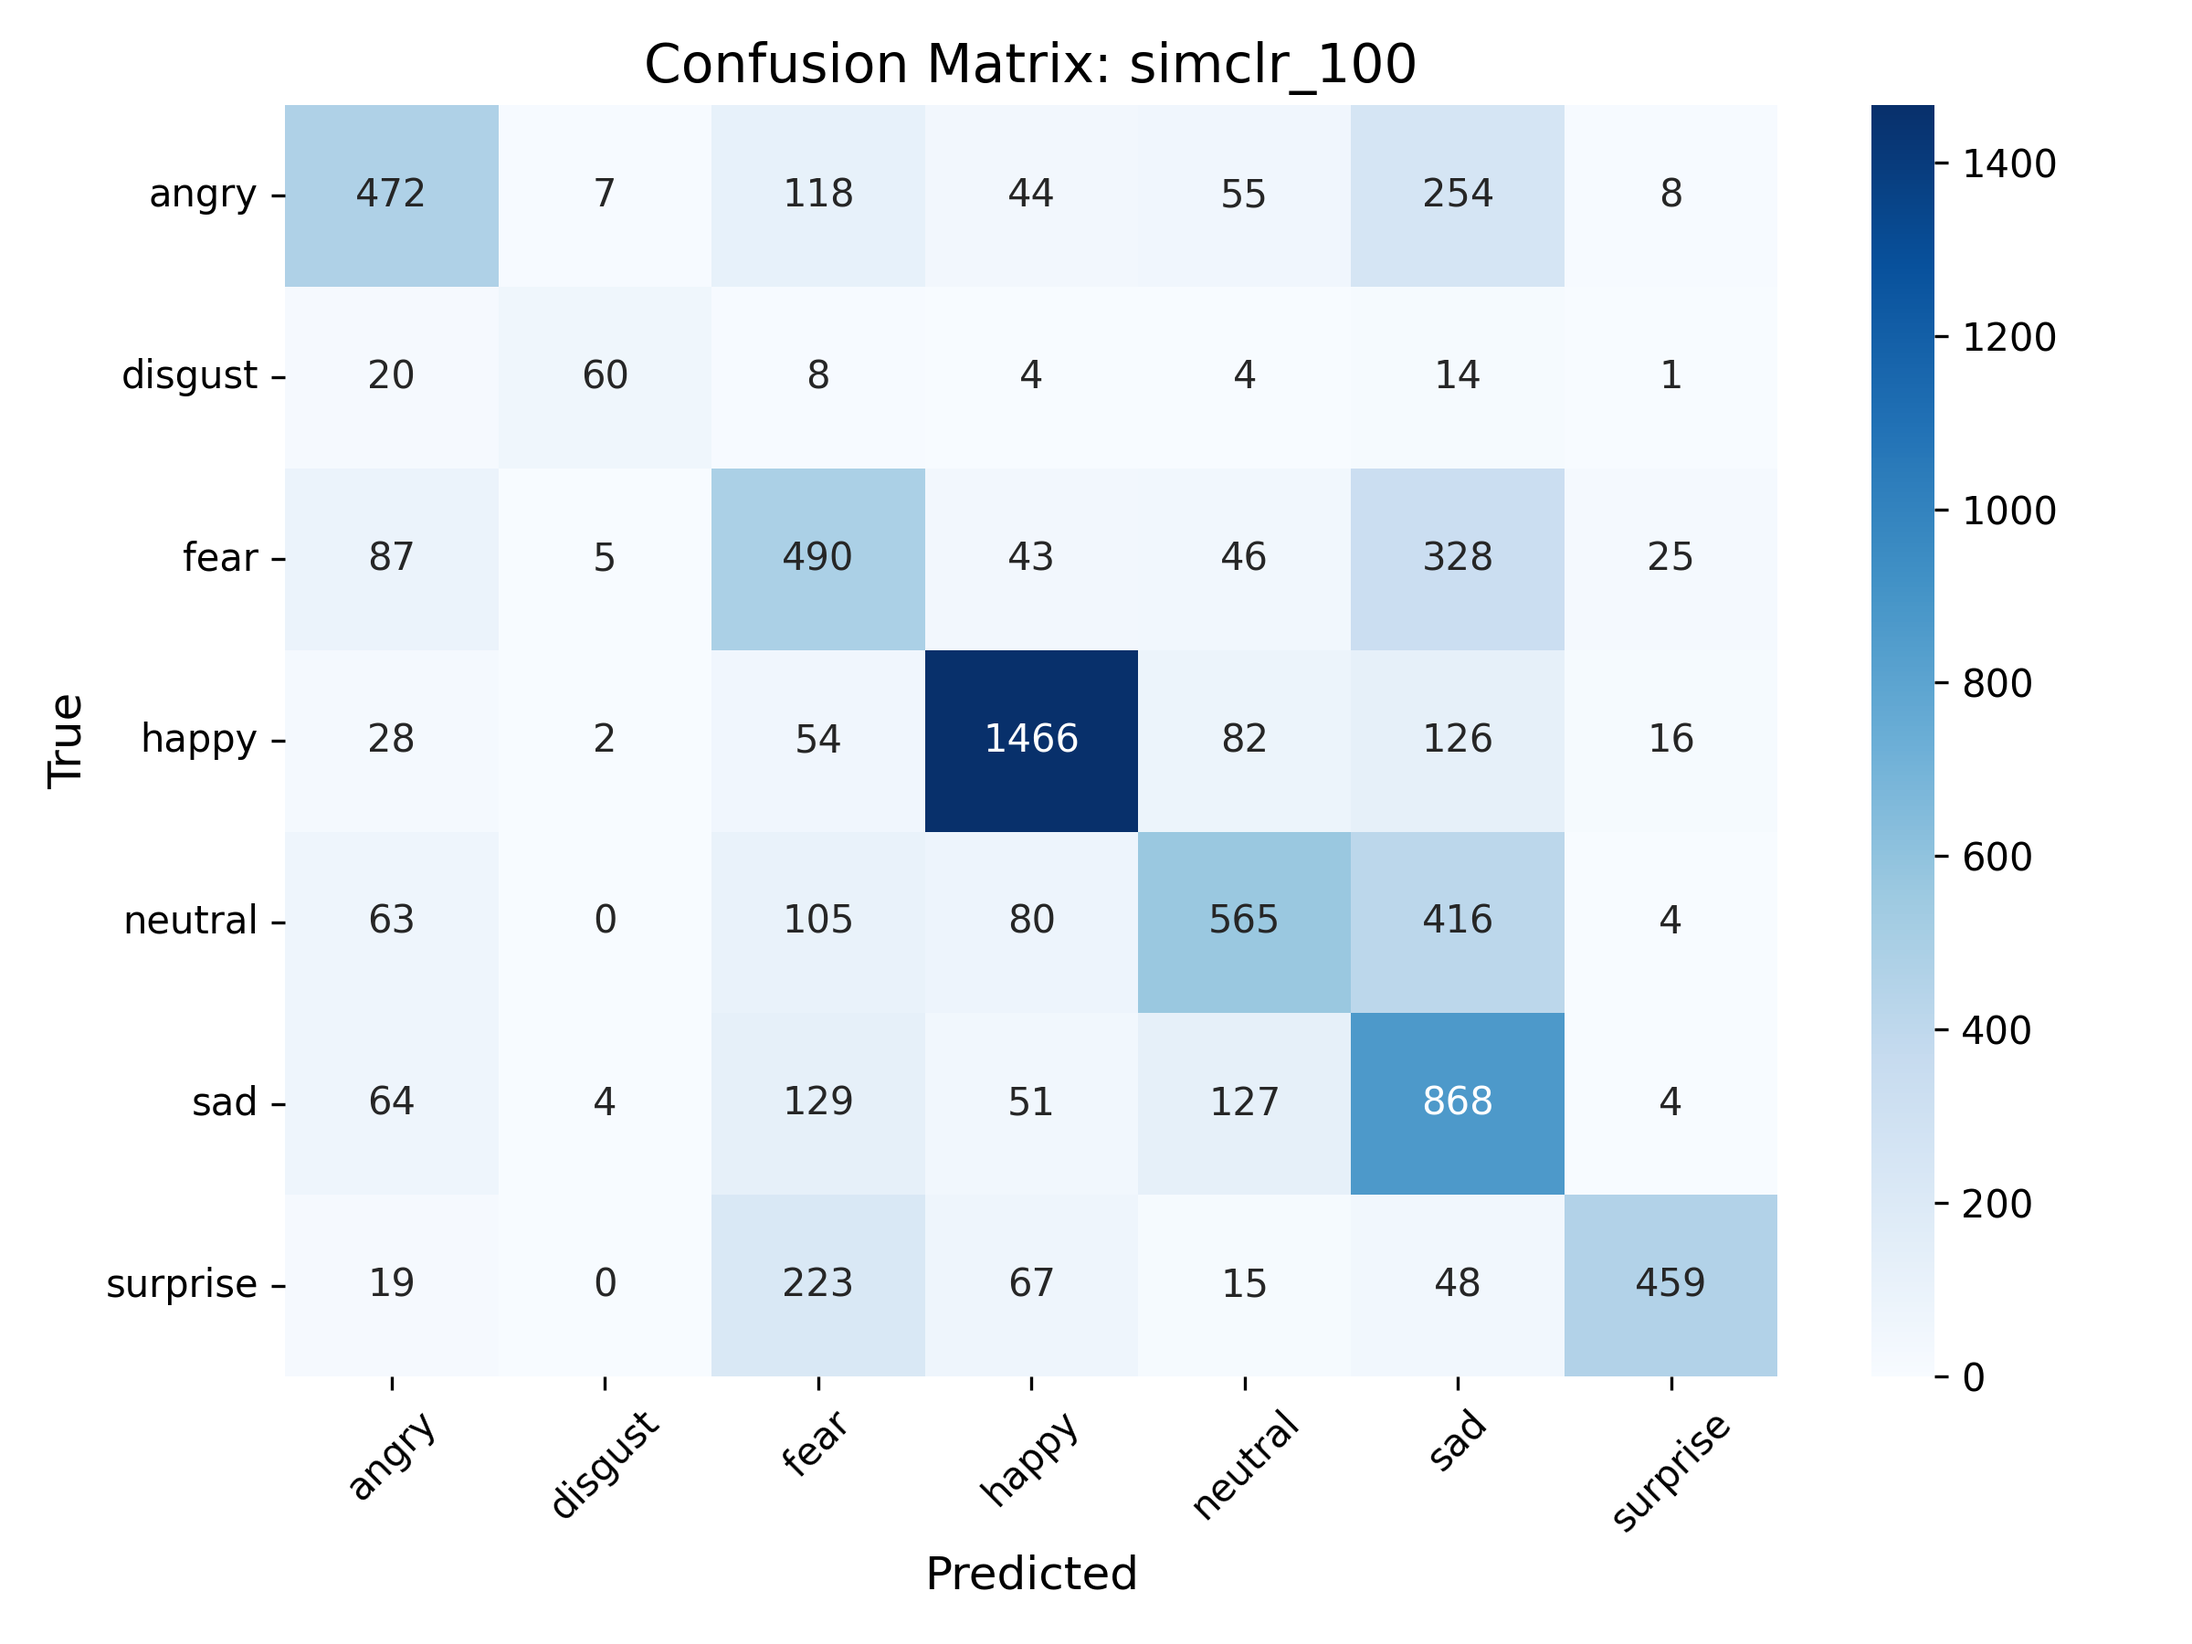
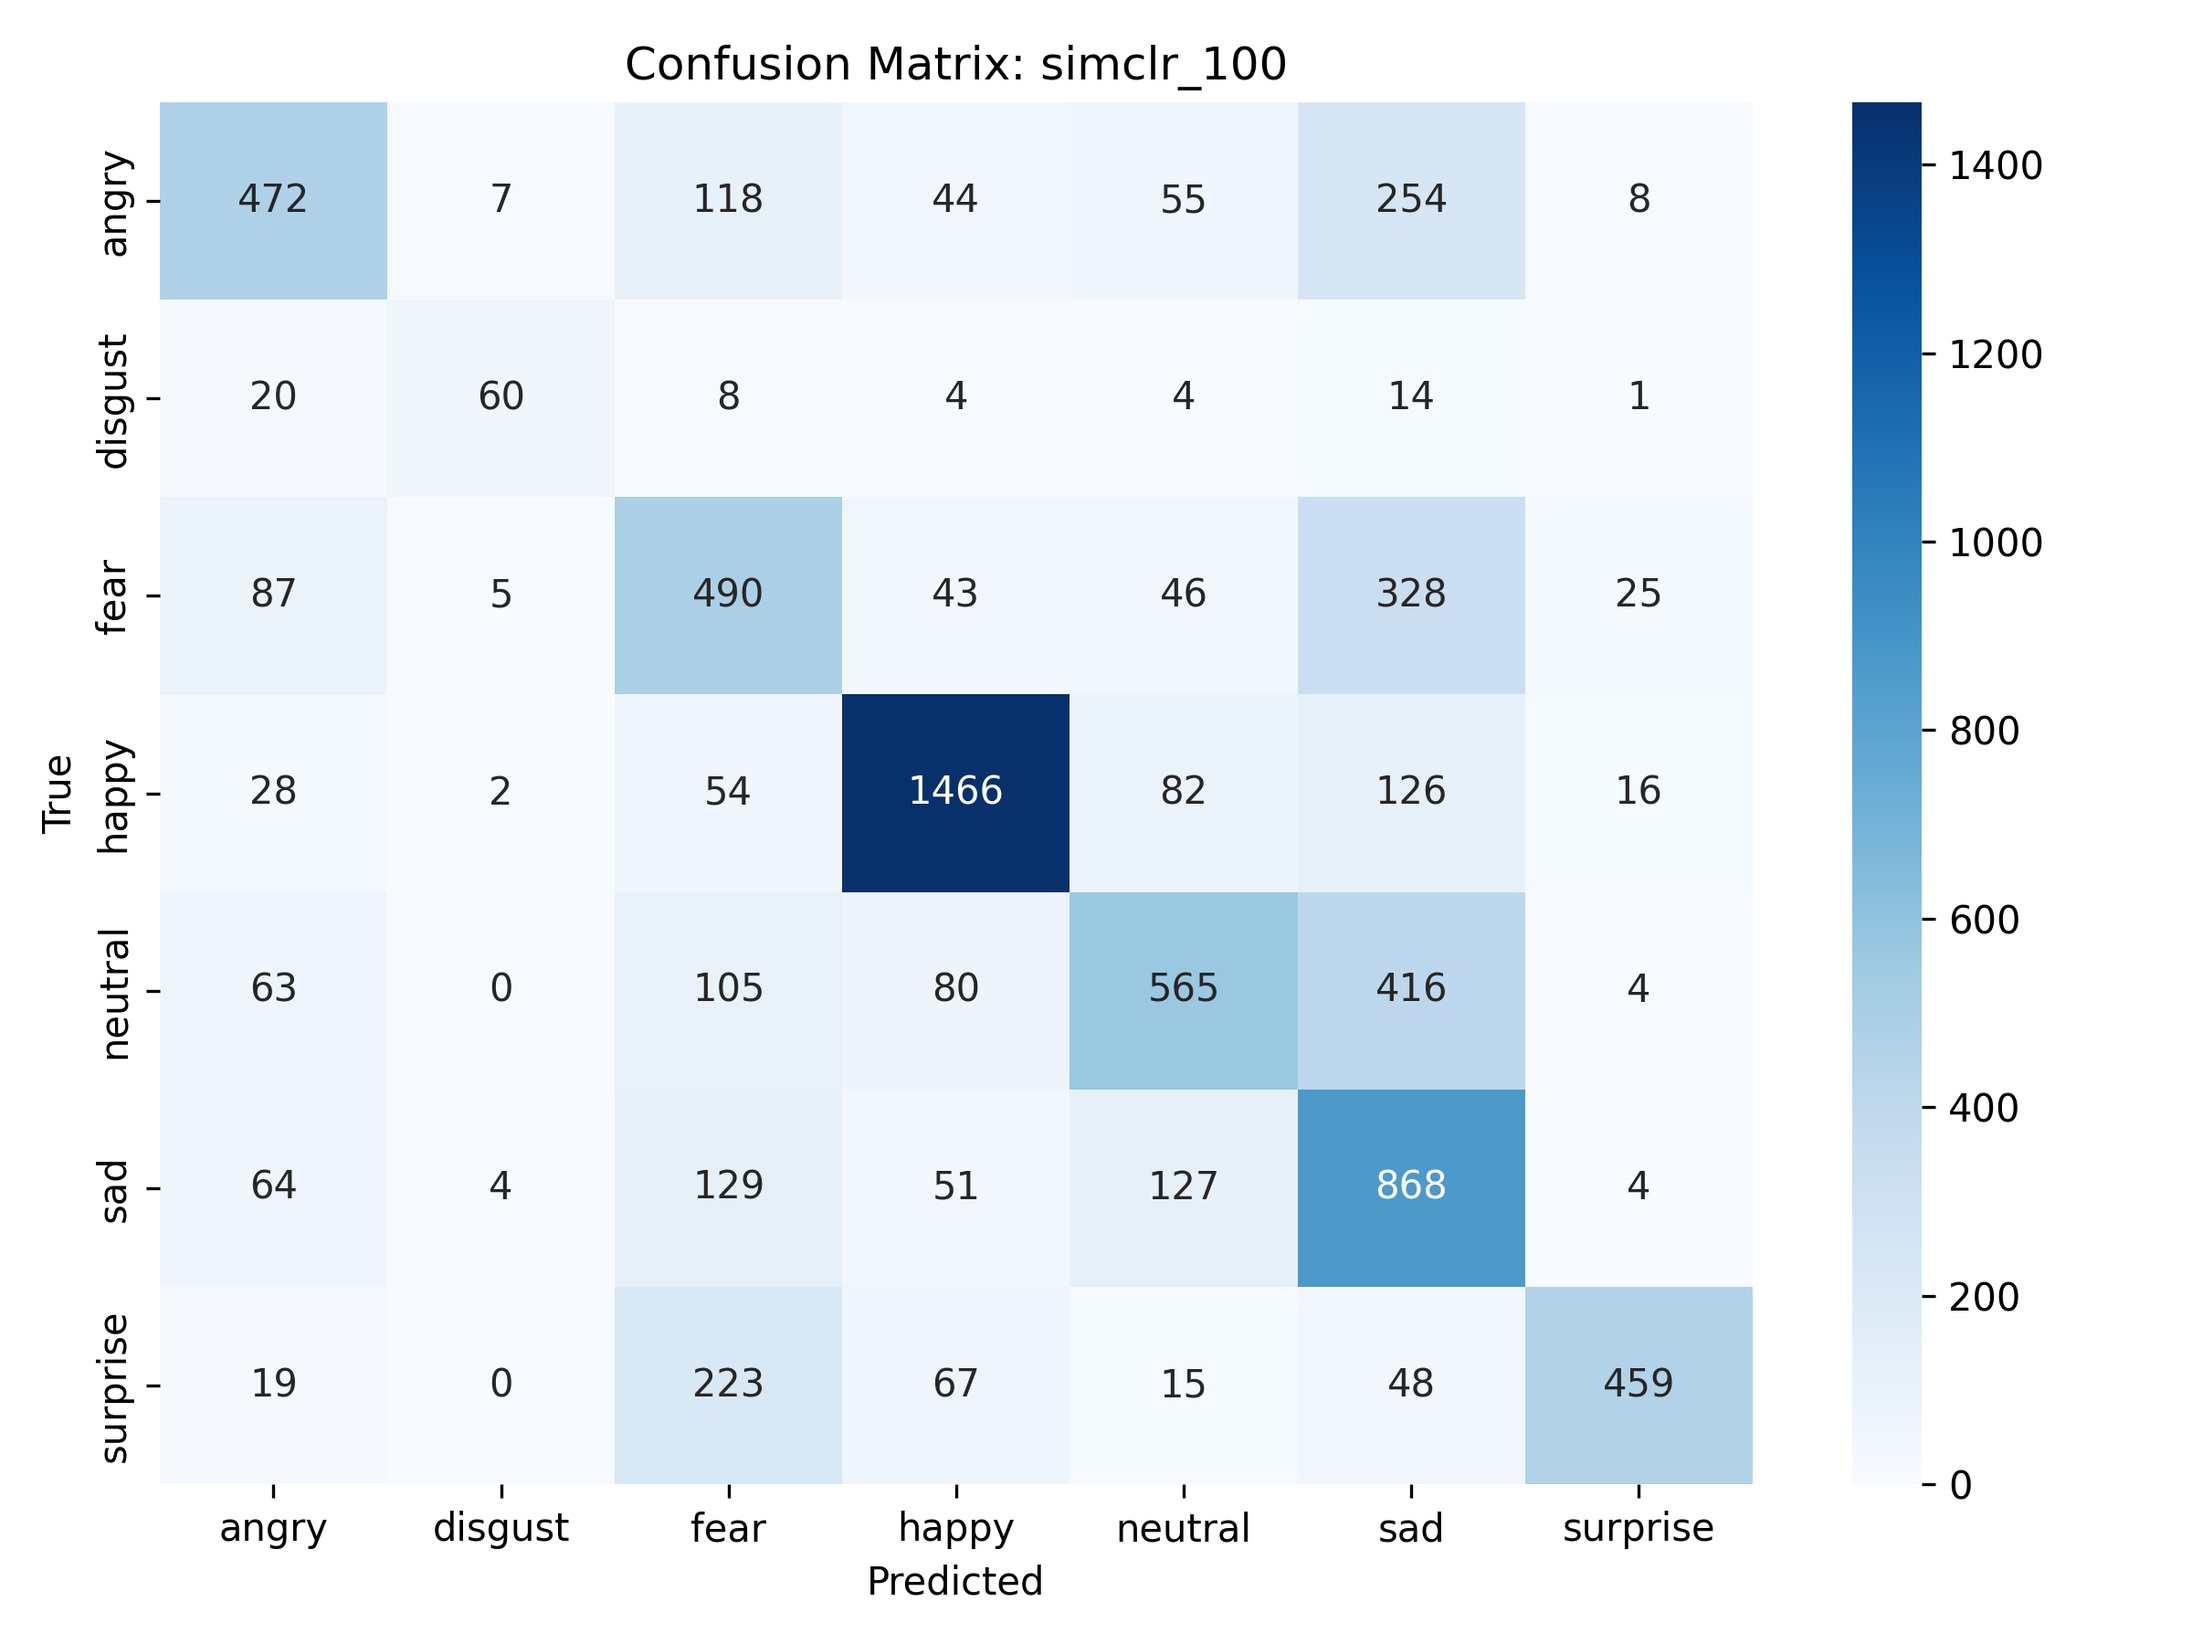
more vis

diff --git a/vis.py b/vis.py
@@ -1,0 +1,220 @@
+import torch
+import torch.nn as nn
+from sklearn.metrics import classification_report, confusion_matrix, accuracy_score, f1_score
+from sklearn.manifold import TSNE
+import matplotlib.pyplot as plt
+import seaborn as sns
+from torchvision import datasets, transforms, models
+from torch.utils.data import DataLoader
+import pandas as pd
+import numpy as np
+import os
+
+# ---------------- CONFIG ----------------
+DEVICE = "cuda" if torch.cuda.is_available() else "cpu"
+NUM_CLASSES = 7
+BATCH_SIZE = 64
+
+TEST_DIR = r"D:\CLOUD PROJ\fer2013\test"
+
+OUTPUT_DIR = "outputs"
+CM_DIR = os.path.join(OUTPUT_DIR, "confusion_matrices")
+REPORT_DIR = os.path.join(OUTPUT_DIR, "reports")
+PLOT_DIR = os.path.join(OUTPUT_DIR, "plots")
+
+os.makedirs(CM_DIR, exist_ok=True)
+os.makedirs(REPORT_DIR, exist_ok=True)
+os.makedirs(PLOT_DIR, exist_ok=True)
+
+MODEL_PATHS = {
+    "baseline_100": "baseline_resnet18_emotion100.pth",
+    "simclr_100": "simclr_finetuned100_emotion.pth"
+}
+
+# ---------------- DATA ----------------
+transform = transforms.Compose([
+    transforms.Resize((224, 224)),
+    transforms.ToTensor()
+])
+
+test_dataset = datasets.ImageFolder(TEST_DIR, transform=transform)
+test_loader = DataLoader(test_dataset, batch_size=BATCH_SIZE, shuffle=False)
+
+class_names = test_dataset.classes
+
+# ---------------- MODEL ----------------
+def load_model(path):
+    model = models.resnet18(pretrained=False)
+    model.fc = nn.Linear(model.fc.in_features, NUM_CLASSES)
+    model.load_state_dict(torch.load(path, map_location=DEVICE))
+    model.to(DEVICE)
+    model.eval()
+    return model
+
+# ---------------- CONFUSION MATRIX ----------------
+def save_confusion_matrix(cm, name):
+    plt.figure(figsize=(8,6))
+    sns.heatmap(cm, annot=True, fmt="d", cmap="Blues",
+                xticklabels=class_names,
+                yticklabels=class_names)
+    plt.title(f"Confusion Matrix: {name}")
+    plt.xlabel("Predicted")
+    plt.ylabel("True")
+    plt.tight_layout()
+    plt.savefig(os.path.join(CM_DIR, f"{name}_cm.png"), dpi=300)
+    plt.close()
+
+def save_normalized_cm(cm, name):
+    cm_norm = cm.astype('float') / cm.sum(axis=1)[:, np.newaxis]
+
+    plt.figure(figsize=(8,6))
+    sns.heatmap(cm_norm, annot=True, fmt=".2f", cmap="Blues",
+                xticklabels=class_names,
+                yticklabels=class_names)
+    plt.title(f"Normalized CM: {name}")
+    plt.tight_layout()
+    plt.savefig(os.path.join(CM_DIR, f"{name}_cm_norm.png"), dpi=300)
+    plt.close()
+
+# ---------------- EVALUATION ----------------
+def evaluate(model, name):
+    y_true, y_pred = [], []
+
+    with torch.no_grad():
+        for images, labels in test_loader:
+            images, labels = images.to(DEVICE), labels.to(DEVICE)
+            outputs = model(images)
+            preds = torch.argmax(outputs, dim=1)
+
+            y_true.extend(labels.cpu().numpy())
+            y_pred.extend(preds.cpu().numpy())
+
+    acc = accuracy_score(y_true, y_pred)
+    f1 = f1_score(y_true, y_pred, average='macro')
+
+    print(f"{name} → Acc: {acc:.4f}, F1: {f1:.4f}")
+
+    # report
+    report = classification_report(y_true, y_pred, target_names=class_names, output_dict=True)
+    report_df = pd.DataFrame(report).transpose()
+    report_df.to_csv(os.path.join(REPORT_DIR, f"{name}_report.csv"))
+
+    cm = confusion_matrix(y_true, y_pred)
+    save_confusion_matrix(cm, name)
+    save_normalized_cm(cm, name)
+
+    return acc, f1, cm, report_df
+
+# ---------------- TSNE ----------------
+def extract_features(model):
+    features, labels = [], []
+
+    with torch.no_grad():
+        for images, lbls in test_loader:
+            images = images.to(DEVICE)
+
+            x = model.conv1(images)
+            x = model.bn1(x)
+            x = model.relu(x)
+            x = model.maxpool(x)
+
+            x = model.layer1(x)
+            x = model.layer2(x)
+            x = model.layer3(x)
+            x = model.layer4(x)
+
+            x = model.avgpool(x)
+            x = torch.flatten(x, 1)
+
+            features.append(x.cpu().numpy())
+            labels.extend(lbls.numpy())
+
+    return np.concatenate(features), np.array(labels)
+
+def plot_tsne(model, name):
+    features, labels = extract_features(model)
+
+    tsne = TSNE(n_components=2, random_state=42, perplexity=30)
+    reduced = tsne.fit_transform(features)
+
+    plt.figure(figsize=(7,6))
+    for i, cls in enumerate(class_names):
+        idx = labels == i
+        plt.scatter(reduced[idx, 0], reduced[idx, 1], label=cls, s=10)
+
+    plt.legend()
+    plt.title(f"t-SNE: {name}")
+    plt.tight_layout()
+    plt.savefig(os.path.join(PLOT_DIR, f"{name}_tsne.png"), dpi=300)
+    plt.close()
+
+# ---------------- PER CLASS ----------------
+def plot_per_class(all_reports):
+    b = all_reports["baseline_100"].loc[class_names]["f1-score"]
+    s = all_reports["simclr_100"].loc[class_names]["f1-score"]
+
+    x = np.arange(len(class_names))
+
+    plt.figure()
+    plt.bar(x-0.2, b, 0.4, label="Baseline")
+    plt.bar(x+0.2, s, 0.4, label="SimCLR")
+
+    plt.xticks(x, class_names, rotation=45)
+    plt.title("Per-Class F1")
+    plt.legend()
+    plt.tight_layout()
+    plt.savefig(os.path.join(PLOT_DIR, "per_class.png"), dpi=300)
+    plt.close()
+
+# ---------------- MISCLASSIFIED ----------------
+def plot_errors(model, name):
+    imgs, t, p = [], [], []
+
+    with torch.no_grad():
+        for images, labels in test_loader:
+            images = images.to(DEVICE)
+            outputs = model(images)
+            preds = torch.argmax(outputs, dim=1)
+
+            for i in range(len(images)):
+                if preds[i] != labels[i]:
+                    imgs.append(images[i].cpu())
+                    t.append(labels[i].item())
+                    p.append(preds[i].item())
+                if len(imgs) >= 12:
+                    break
+            if len(imgs) >= 12:
+                break
+
+    plt.figure(figsize=(10,8))
+    for i in range(len(imgs)):
+        plt.subplot(3,4,i+1)
+        plt.imshow(imgs[i].permute(1,2,0))
+        plt.title(f"T:{class_names[t[i]]}\nP:{class_names[p[i]]}")
+        plt.axis("off")
+
+    plt.tight_layout()
+    plt.savefig(os.path.join(PLOT_DIR, f"{name}_errors.png"), dpi=300)
+    plt.close()
+
+# ---------------- MAIN ----------------
+results = []
+all_reports = {}
+
+for name, path in MODEL_PATHS.items():
+    if os.path.exists(path):
+        model = load_model(path)
+        acc, f1, cm, rep = evaluate(model, name)
+
+        results.append({"Model": name, "Accuracy": acc, "Macro_F1": f1})
+        all_reports[name] = rep
+
+        plot_tsne(model, name)
+        plot_errors(model, name)
+
+df = pd.DataFrame(results)
+df.to_csv(os.path.join(OUTPUT_DIR, "results.csv"), index=False)
+
+plot_per_class(all_reports)
+
+print("✅ DONE — All outputs saved in 'outputs/' folder")
